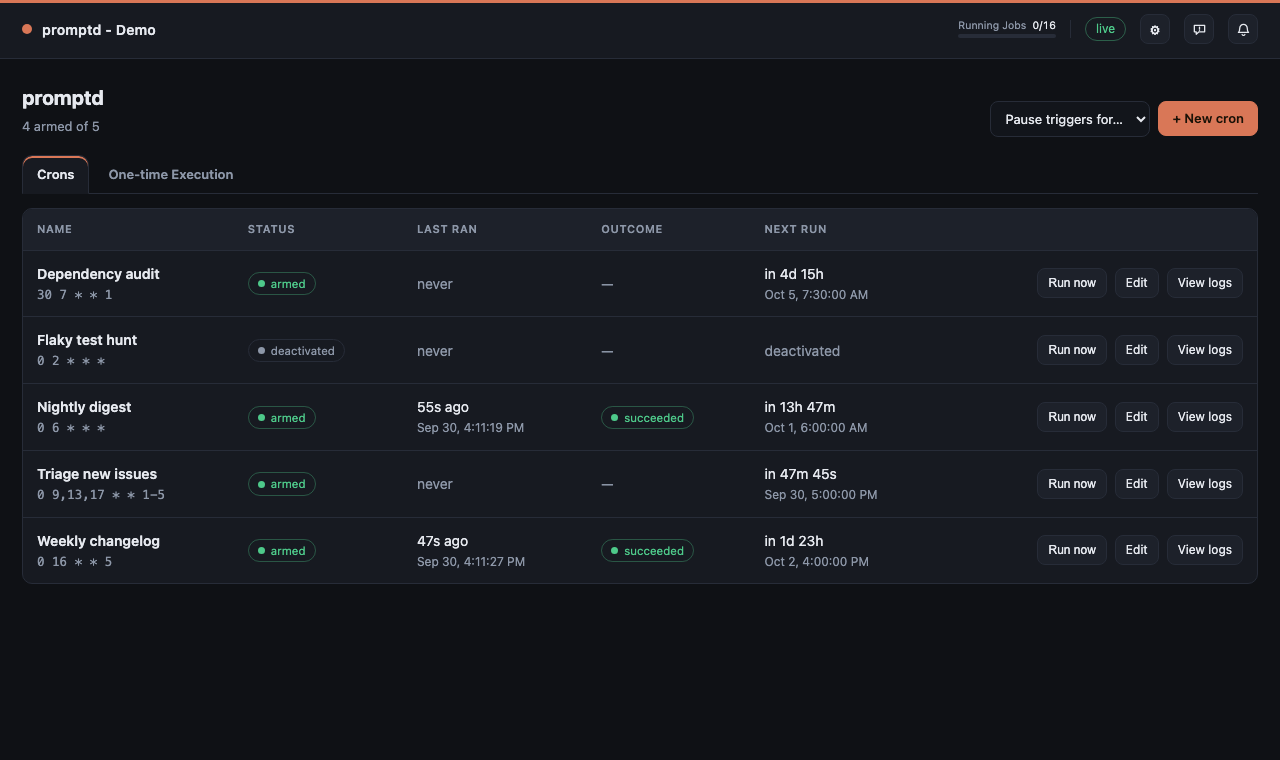
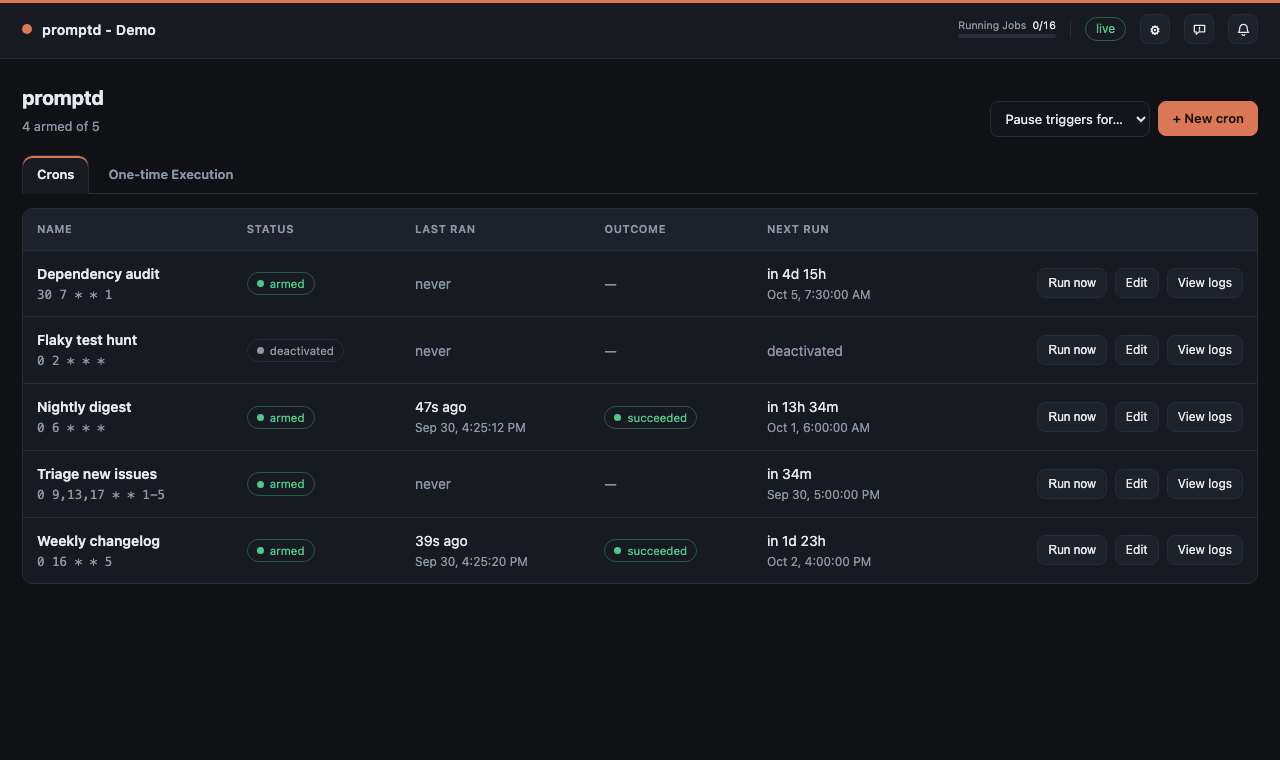
Keep the screenshot skill away from a maintainer's real promptd
The skill starts a throwaway hub and node, but an inherited DATABASE_URL
would have put the demo jobs in the maintainer's own database, and an
inherited node home, hub URL or token could have joined their real hub.
Both processes now set every one of those explicitly.

The demo folder is a fresh mktemp -d under /tmp, passed to seed.sh, so
cleanup removes only what the run made. seed.sh exits 1 when a demo run
fails or does not finish, instead of reporting success over a missing log.
The screenshots are retaken with the fixed skill.

diff --git a/.claude/skills/readme-screenshots/SKILL.md b/.claude/skills/readme-screenshots/SKILL.md
@@ -14,21 +14,25 @@ Needs a Mac with Google Chrome, Node 20+, and Claude Code signed in (two demo ru
 
 1. **Build.** `npm ci && npm run build`. Done when `dist/.built` exists.
 
-2. **Start the throwaway hub and node.** Pick a scratch folder `$S` (e.g. `S=$(mktemp -d)`) and a free port; 4390 here.
+2. **Start the throwaway hub and node.** Make a scratch folder and a demo folder, and pick a free port; 4390 here.
 
    ```bash
-   PROMPTD_HOME=$S/home PORT=4390 HOST=127.0.0.1 SYSTEM_SAMPLE_MS=0 PROMPTD_SELF_UPDATE=0 node src/server.js > $S/hub.log 2>&1 &
-   PROMPTD_HOME=$S/home PORT=4390 PROMPTD_NODE_ID=demo-mac PROMPTD_NODE_NAME=demo-mac SYSTEM_SAMPLE_MS=0 node src/node.js > $S/node.log 2>&1 &
+   S=$(mktemp -d)
+   D=$(mktemp -d /tmp/promptd-demo.XXXXXX)
+   DATABASE_URL= PROMPTD_NODE_TOKEN= PROMPTD_HOME=$S/home PORT=4390 HOST=127.0.0.1 SYSTEM_SAMPLE_MS=0 PROMPTD_SELF_UPDATE=0 \
+     node src/server.js > $S/hub.log 2>&1 &
+   PROMPTD_NODE_TOKEN= PROMPTD_HOME=$S/home PROMPTD_NODE_HOME=$S/home/node PROMPTD_HUB_URL=http://127.0.0.1:4390 \
+     PROMPTD_NODE_ID=demo-mac PROMPTD_NODE_NAME=demo-mac SYSTEM_SAMPLE_MS=0 node src/node.js > $S/node.log 2>&1 &
    ```
 
-   `SYSTEM_SAMPLE_MS=0` drops the machine meters from the header, and the node id keeps the hostname out of the job list. Done when `curl -s http://127.0.0.1:4390/api/nodes` shows `"online":true`.
+   Every variable that points promptd at stored state is set here, empty where the default is wanted: an inherited `DATABASE_URL` would put the demo jobs in a real database, and an inherited node home, hub URL or token would join a real hub. `SYSTEM_SAMPLE_MS=0` drops the machine meters from the header, and the node id keeps the hostname out of the job list. Done when `curl -s http://127.0.0.1:4390/api/nodes` shows `"online":true`.
 
-3. **Seed.** `.claude/skills/readme-screenshots/seed.sh http://127.0.0.1:4390`. It names the hub Demo, creates five crons and two one-time executions, and runs Nightly digest and Weekly changelog. Every job works in `/tmp/promptd-demo`, which is the directory their logs print. Done when it prints `succeeded` for both runs.
+3. **Seed.** `.claude/skills/readme-screenshots/seed.sh http://127.0.0.1:4390 "$D"`. It names the hub Demo, creates five crons and two one-time executions, and runs Nightly digest and Weekly changelog. Every job works in `$D`, the directory their logs print. Done when it exits 0; it exits 1 when either run fails or does not finish.
 
 4. **Hide the Claude account.** The header draws usage meters for whichever account the node can read, so restart the node with none:
    - Stop the node (`kill` its pid), then `rm -f $S/home/usage-cache.json`, the reading it saved.
    - `mkdir -p $S/shim && printf '#!/bin/sh\nexit 1\n' > $S/shim/security && chmod +x $S/shim/security`. The node reads the token from the keychain with `security`, and this one finds nothing.
-   - Start the node again as in step 2 with `PATH="$S/shim:$PATH"` in front. When `~/.claude/.credentials.json` exists, also give it `HOME` set to an empty folder, since the node reads that file too.
+   - Start the node again with the same command as in step 2, with `PATH="$S/shim:$PATH"` in front. When `~/.claude/.credentials.json` exists, also give it `HOME` set to an empty folder, since the node reads that file too.
 
    Done when `curl -s http://127.0.0.1:4390/api/health` shows `usage.windows` empty.
 
@@ -43,4 +47,4 @@ Needs a Mac with Google Chrome, Node 20+, and Claude Code signed in (two demo ru
 
 6. **Check every picture.** Open each image and read it as a stranger would. It is **clean** when none of these appears anywhere: header usage meters, the machine's real hostname, a home-folder path, an email address, a token. Also `grep -rE "$(whoami)|$(hostname -s)" $S/home/logs` must print nothing. Retake anything that is not clean.
 
-7. **Clean up.** Stop the hub and node before any demo cron's next run comes round, then `rm -rf "$S" /tmp/promptd-demo`. Done when `lsof -iTCP:4390` prints nothing.
+7. **Clean up.** Stop the hub and node before any demo cron's next run comes round, then `rm -rf "$S" "$D"`. Done when `lsof -iTCP:4390` prints nothing.
